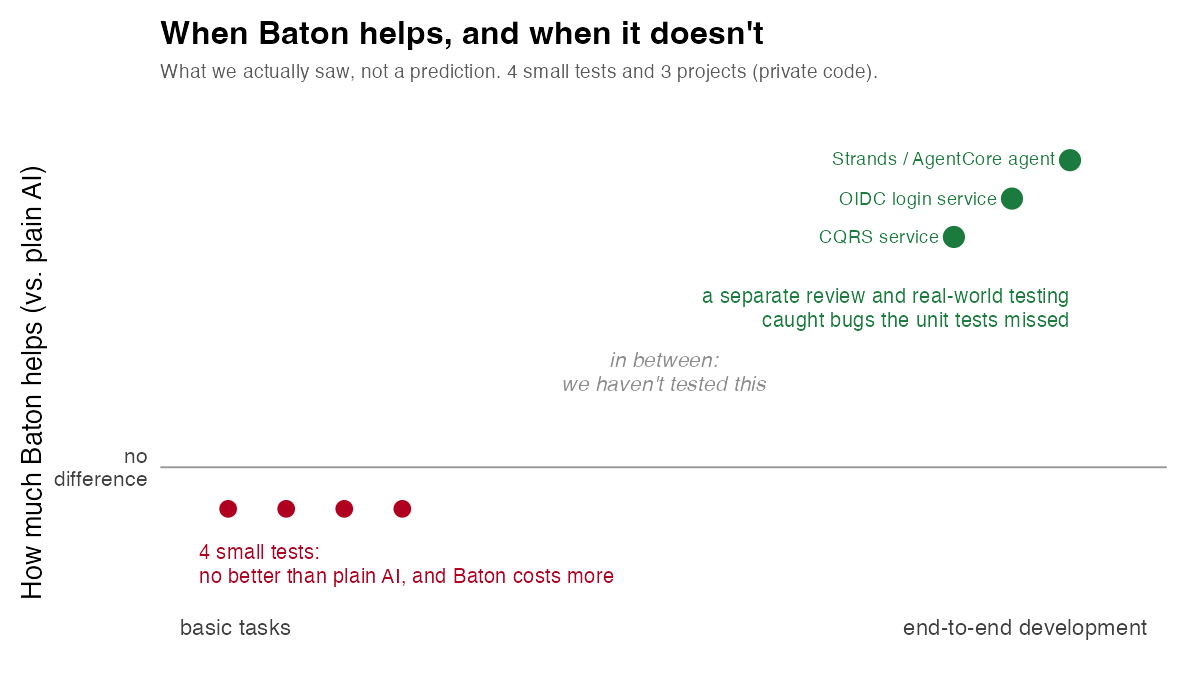
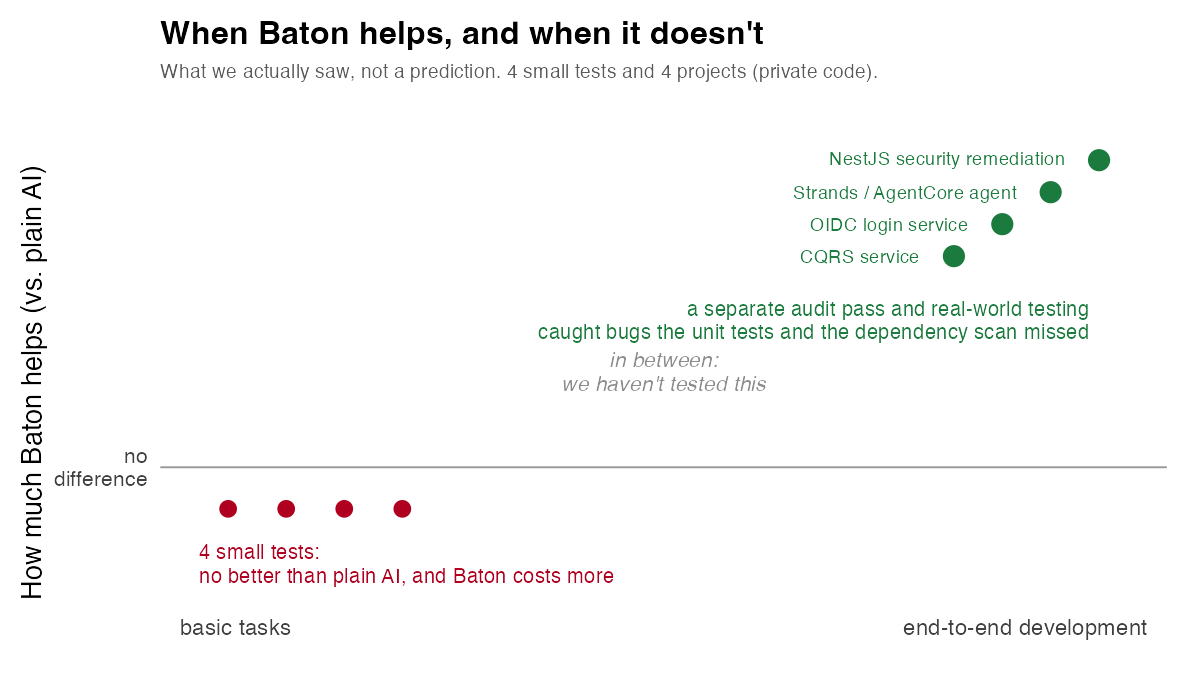
docs: evidence chart adds Run 8 (NestJS security remediation) as a 4th field project (#14)
Regenerated docs/evidence.png with the security-remediation run plotted alongside
the CQRS, OIDC, and Strands/AgentCore projects, and committed the chart source
(docs/make-evidence-chart.R). README alt-text + the end-to-end bullet now say four
projects and name the dependency-scan-missed RCE. Honesty geometry unchanged
(stakes not complexity, no fitted trend line, middle marked unmeasured).

Changed region(s): [[0.6475, 0.213, 0.925, 0.3957], [0.4625, 0.4261, 0.925, 0.5174]]

diff --git a/CHANGELOG.md b/CHANGELOG.md
@@ -19,6 +19,9 @@ patch, and the frozen contract (the loop and routing gate, the lane map and four
   pattern a SAST scanner owns.
 - **README**: storefront polish (renders off-GitHub, concrete use cases, a regulated-fitness line) and
   one honest security-use-case line.
+- **Evidence chart**: the "When Baton helps" figure now plots Run 8 (a NestJS security remediation) as a
+  fourth field project, where a separate audit pass caught what the unit tests and the dependency scan
+  missed; chart source committed at `docs/make-evidence-chart.R`.
 
 ## 1.0.0 - stable contract
 